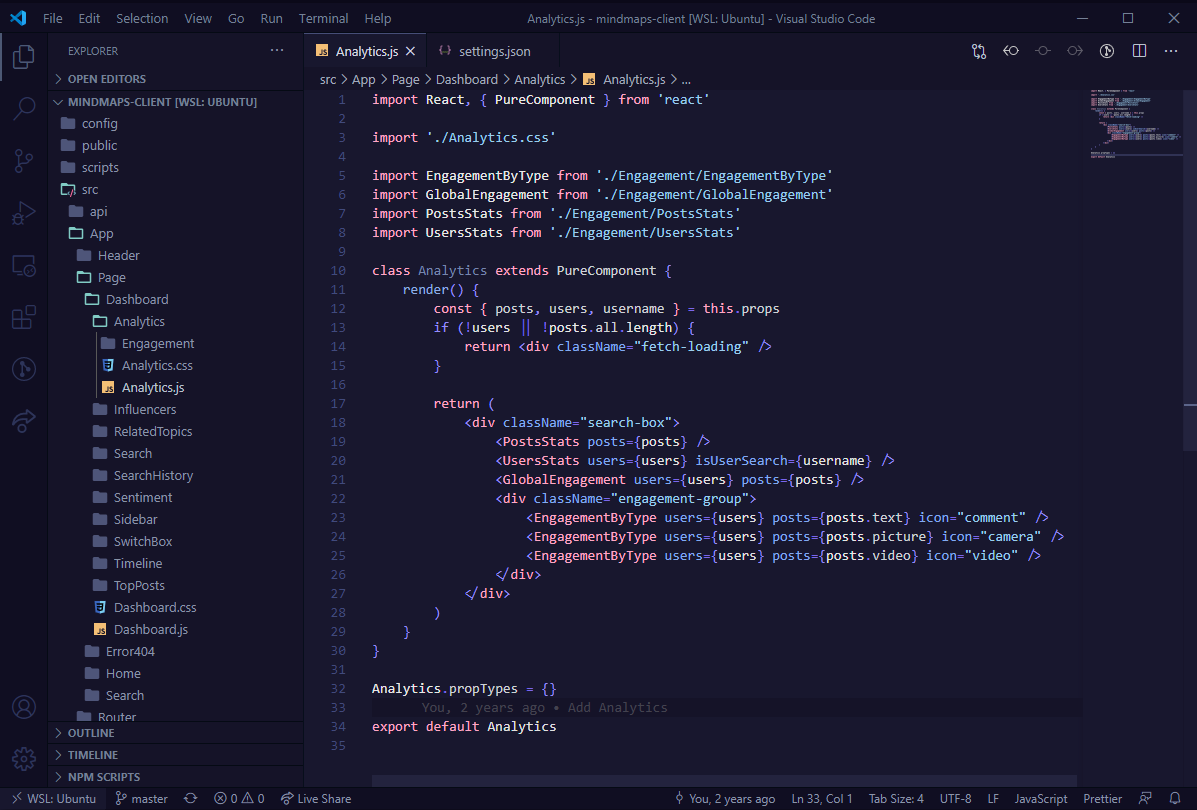
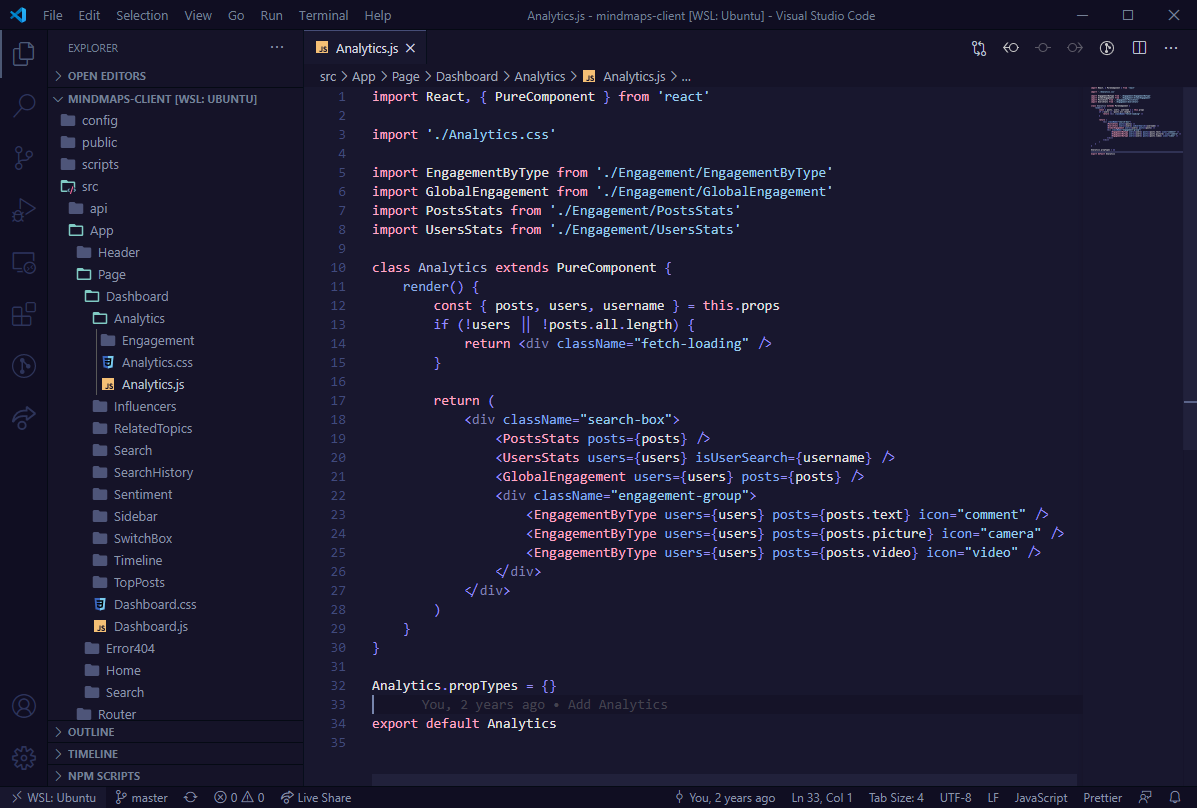
Update Minuit (React) screenshot, patch update to 1.2.7

diff --git a/CHANGELOG.md b/CHANGELOG.md
@@ -4,6 +4,10 @@ All notable changes to the "minuit" extension will be documented in this file.
 
 Check [Keep a Changelog](http://keepachangelog.com/) for recommendations on how to structure this file.
 
+## [1.2.7]
+
+-   Lighter classes colors to be more dinstinguishable
+
 ## [1.2.6]
 
 -   Update engine version compatibility
